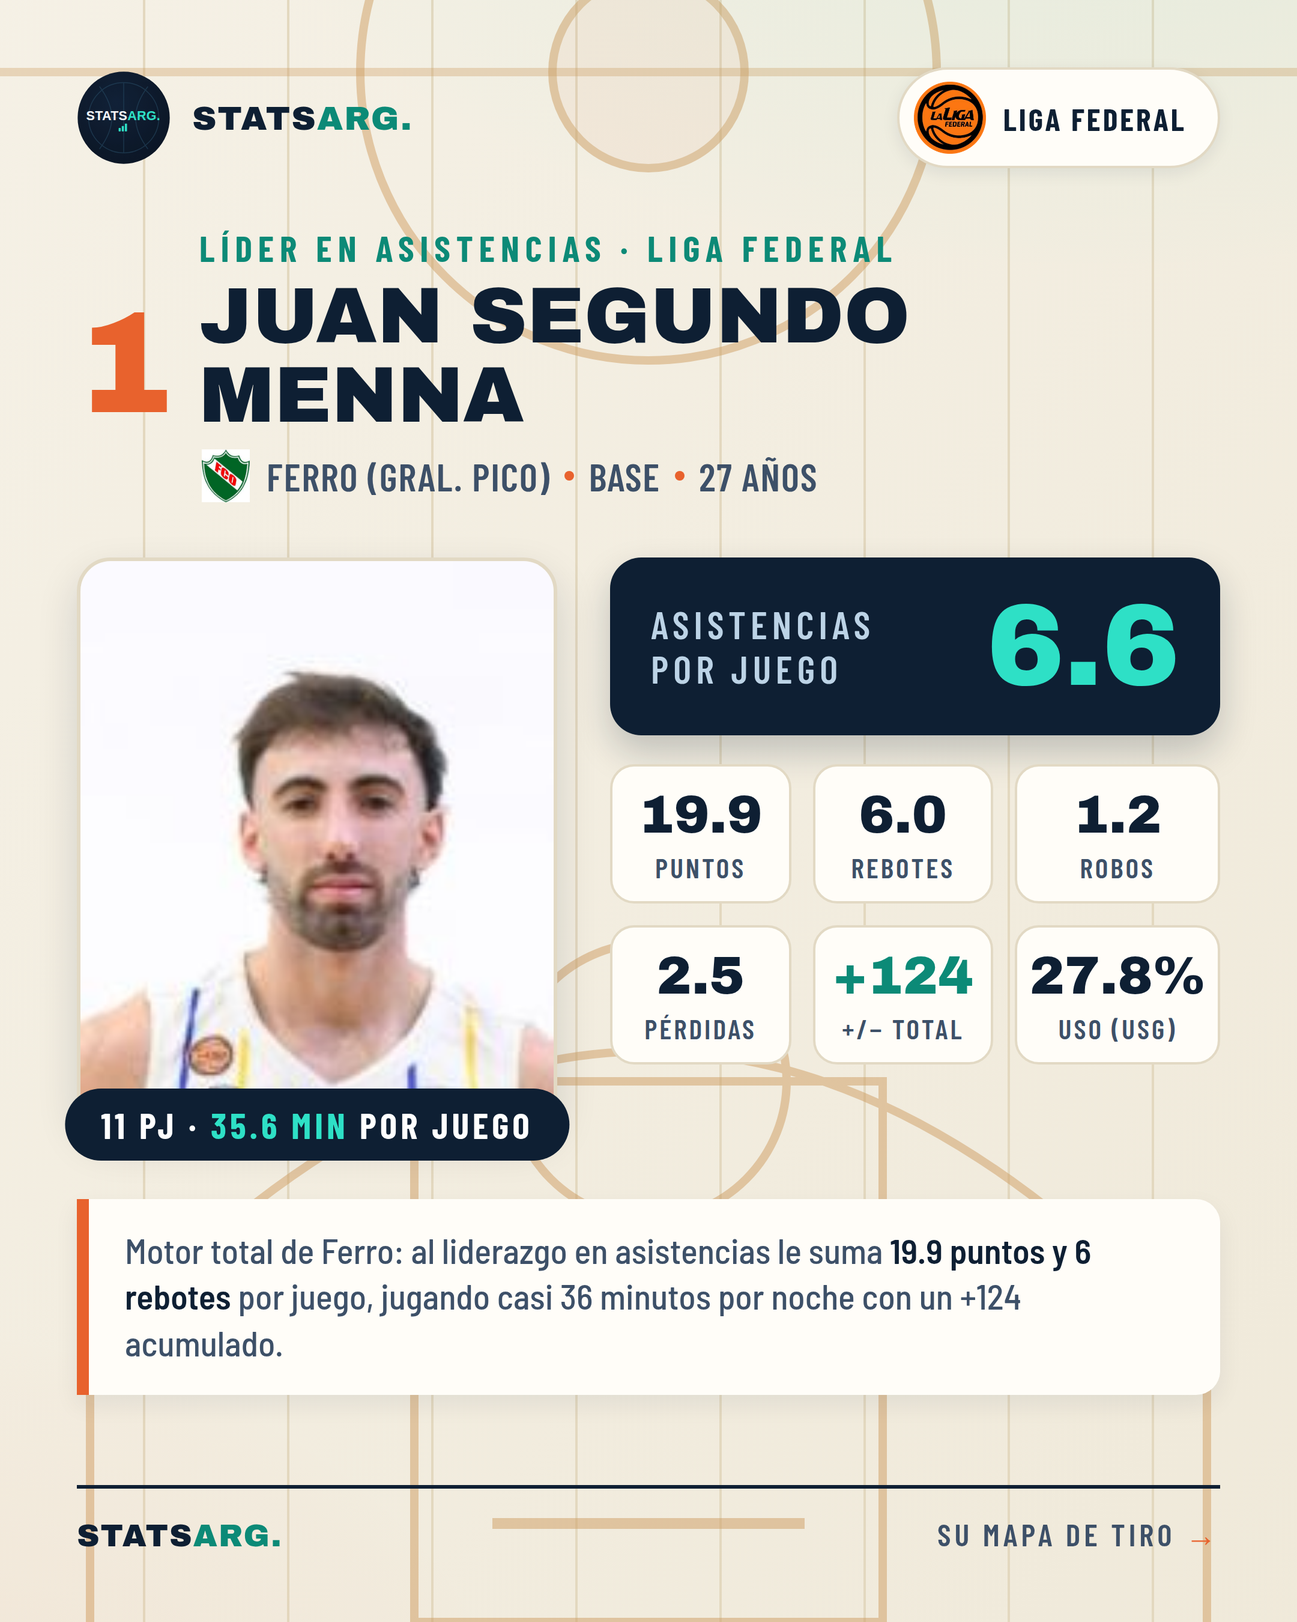
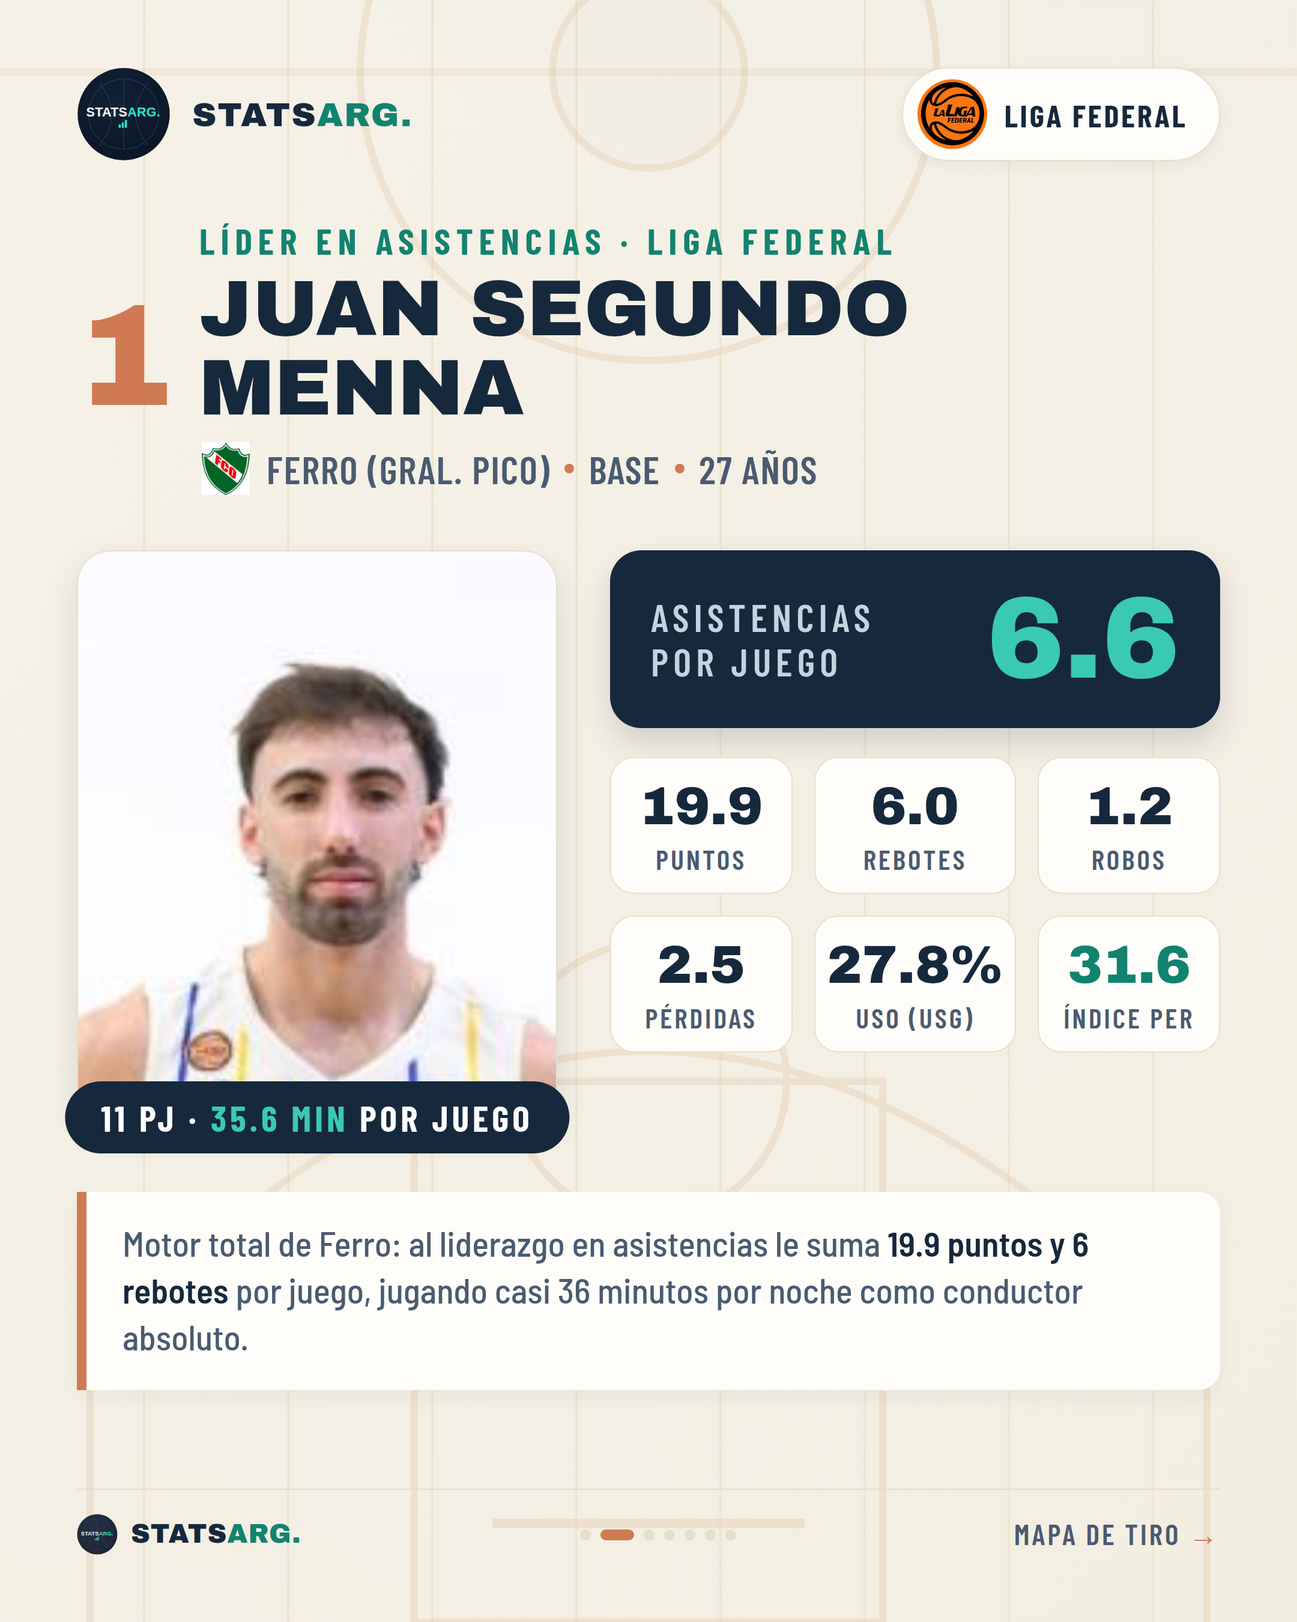
Rediseño carrusel asistidores: datos y estética
- Reemplaza el +/- (poco confiable en Liga Federal) por el Índice PER, dato
  real por jugador del dataset.
- Footer rediseñado con marca + puntos de progreso del carrusel.
- Paleta más suave (naranja terracota, cian atenuado) y cancha de fondo
  mucho más transparente.
- Mapa de tiro recortado a la cancha y agrandado para aprovechar el espacio;
  paneles de detalle reubicados en fila debajo.

Claude-Session: https://claude.ai/code/session_01GUo5CWbMptDgps5CVvVAgo

diff --git a/social/asistidores-liga-federal/slides.html b/social/asistidores-liga-federal/slides.html
@@ -11,16 +11,17 @@
 @font-face{font-family:'Barlow Semi';src:url('fonts/barlow-medium.ttf');font-weight:500}
 
 :root{
-  --bone:#f4f0e6;
-  --bone2:#ece6d7;
-  --navy:#0e1f33;
-  --navy-soft:#3d5068;
-  --cyan:#2ee0c6;
-  --teal-ink:#0c8a77;
-  --orange:#e8622d;
-  --wood:#d9c39a;
-  --card:#fffdf8;
-  --line:#e2d9c4;
+  --bone:#f5f1e8;
+  --bone2:#efe9db;
+  --navy:#16283c;
+  --navy-soft:#4a5b70;
+  --cyan:#3ac9b4;
+  --teal-ink:#12836f;
+  --orange:#cf7a52;
+  --orange-soft:#e7c3ad;
+  --card:#fffdf9;
+  --line:#e7dfcd;
+  --hair:#e6ddca;
 }
 *{margin:0;padding:0;box-sizing:border-box}
 body{background:#555;font-family:'Barlow Semi',sans-serif;color:var(--navy)}
@@ -31,10 +32,10 @@ body{background:#555;font-family:'Barlow Semi',sans-serif;color:var(--navy)}
   margin:24px auto;
 }
 .court{position:absolute;inset:0;z-index:0}
-.grain{position:absolute;inset:0;z-index:0;opacity:.5;
+.grain{position:absolute;inset:0;z-index:0;opacity:.32;
   background:
-    radial-gradient(1200px 600px at 85% -10%, rgba(46,224,198,.14), transparent 60%),
-    radial-gradient(1000px 700px at -10% 110%, rgba(232,98,45,.10), transparent 55%);
+    radial-gradient(1200px 620px at 84% -12%, rgba(58,201,180,.09), transparent 60%),
+    radial-gradient(1000px 720px at -12% 112%, rgba(207,122,82,.06), transparent 55%);
 }
 .content{position:relative;z-index:2;height:100%;display:flex;flex-direction:column;padding:56px 64px}
 
@@ -44,36 +45,42 @@ body{background:#555;font-family:'Barlow Semi',sans-serif;color:var(--navy)}
 .brand img.logo{width:96px;height:96px}
 .brand .word{font-family:'Archivo Black';font-size:34px;letter-spacing:1px}
 .brand .word span{color:var(--teal-ink)}
-.liga-chip{display:flex;align-items:center;gap:14px;background:var(--card);border:2px solid var(--line);
-  border-radius:999px;padding:10px 26px 10px 12px;box-shadow:0 4px 14px rgba(14,31,51,.08)}
-.liga-chip img{width:60px;height:60px;object-fit:contain}
-.liga-chip .t{font-family:'Barlow Condensed';font-weight:700;font-size:30px;letter-spacing:2px;text-transform:uppercase}
+.liga-chip{display:flex;align-items:center;gap:14px;background:var(--card);border:1px solid var(--line);
+  border-radius:999px;padding:9px 26px 9px 12px;box-shadow:0 3px 10px rgba(22,40,60,.06)}
+.liga-chip img{width:58px;height:58px;object-fit:contain}
+.liga-chip .t{font-family:'Barlow Condensed';font-weight:700;font-size:29px;letter-spacing:2px;text-transform:uppercase}
 
 .kicker{font-family:'Barlow Condensed';font-weight:700;letter-spacing:6px;text-transform:uppercase;
   color:var(--orange);font-size:30px}
-.desc{font-size:29px;line-height:1.32;color:var(--navy-soft);font-weight:500}
-.desc b{color:var(--navy)}
+.desc{font-size:29px;line-height:1.34;color:var(--navy-soft);font-weight:500}
+.desc b{color:var(--navy);font-weight:600}
 
+/* ---------- footer (rediseñado) ---------- */
 .footer{margin-top:auto;display:flex;align-items:center;justify-content:space-between;
-  border-top:3px solid var(--navy);padding-top:22px}
-.footer .fbrand{font-family:'Archivo Black';font-size:26px;letter-spacing:1px}
-.footer .fbrand span{color:var(--teal-ink)}
-.footer .fnote{font-family:'Barlow Condensed';font-weight:600;font-size:26px;letter-spacing:3px;
+  border-top:1px solid var(--hair);padding-top:20px}
+.footer .fbrand{display:flex;align-items:center;gap:11px}
+.footer .fbrand img{width:34px;height:34px;opacity:.92}
+.footer .fbrand .fw{font-family:'Archivo Black';font-size:22px;letter-spacing:.5px;color:var(--navy)}
+.footer .fbrand .fw span{color:var(--teal-ink)}
+.dots{display:flex;align-items:center;gap:8px}
+.dots i{width:9px;height:9px;border-radius:50%;background:var(--hair);display:block;transition:none}
+.dots i.on{background:var(--orange);width:28px;border-radius:5px}
+.fnote{font-family:'Barlow Condensed';font-weight:600;font-size:24px;letter-spacing:2px;
   text-transform:uppercase;color:var(--navy-soft)}
-.footer .fnote b{color:var(--orange)}
+.fnote b{color:var(--orange);font-family:'Barlow Condensed'}
 
 /* ---------- cover ---------- */
 .cover .title-block{margin-top:34px}
 .cover h1{font-family:'Archivo Black';font-size:86px;line-height:.98;text-transform:uppercase;letter-spacing:-1px}
 .cover h1 .hl{color:var(--teal-ink)}
 .cover .subtitle{margin-top:24px;display:inline-flex;align-items:center;gap:20px}
-.cover .subtitle .bar{width:86px;height:12px;background:var(--orange);border-radius:6px}
+.cover .subtitle .bar{width:86px;height:11px;background:var(--orange);border-radius:6px}
 .cover .subtitle .txt{font-family:'Barlow Condensed';font-weight:700;font-size:44px;letter-spacing:4px;
   text-transform:uppercase;color:var(--navy)}
 .podio{margin-top:60px;display:flex;gap:28px}
-.pcard{flex:1;background:var(--card);border:2px solid var(--line);border-radius:26px;padding:20px 18px 18px;
-  text-align:center;box-shadow:0 10px 28px rgba(14,31,51,.10);position:relative}
-.pcard.first{transform:translateY(-26px);border-color:var(--cyan);box-shadow:0 14px 34px rgba(12,138,119,.18)}
+.pcard{flex:1;background:var(--card);border:1px solid var(--line);border-radius:26px;padding:20px 18px 18px;
+  text-align:center;box-shadow:0 8px 22px rgba(22,40,60,.07);position:relative}
+.pcard.first{transform:translateY(-26px);border-color:var(--cyan);box-shadow:0 12px 28px rgba(18,131,111,.14)}
 .pcard .rank{position:absolute;top:-24px;left:50%;transform:translateX(-50%);
   width:56px;height:56px;border-radius:50%;background:var(--navy);color:#fff;
   font-family:'Archivo Black';font-size:28px;display:flex;align-items:center;justify-content:center;
@@ -102,7 +109,7 @@ body{background:#555;font-family:'Barlow Semi',sans-serif;color:var(--navy)}
 .profile-main{display:flex;gap:44px;margin-top:46px;align-items:stretch}
 .photo-wrap{width:400px;flex:none;position:relative}
 .photo-wrap .ph{width:400px;height:476px;object-fit:cover;object-position:top;border-radius:28px;
-  border:3px solid var(--line);background:#e8e2d2;box-shadow:0 14px 34px rgba(14,31,51,.14);display:block}
+  border:1px solid var(--line);background:#e8e2d2;box-shadow:0 12px 28px rgba(22,40,60,.12);display:block}
 .photo-wrap .tag{position:absolute;left:50%;bottom:-26px;transform:translateX(-50%);
   background:var(--navy);color:#fff;border-radius:999px;padding:12px 30px;white-space:nowrap;
   font-family:'Barlow Condensed';font-weight:700;font-size:30px;letter-spacing:3px;text-transform:uppercase}
@@ -110,101 +117,114 @@ body{background:#555;font-family:'Barlow Semi',sans-serif;color:var(--navy)}
 
 .stats-col{flex:1;display:flex;flex-direction:column;gap:24px}
 .hero-tile{background:var(--navy);border-radius:26px;padding:26px 34px;display:flex;align-items:center;
-  justify-content:space-between;box-shadow:0 14px 30px rgba(14,31,51,.22)}
+  justify-content:space-between;box-shadow:0 12px 26px rgba(22,40,60,.16)}
 .hero-tile .lbl{font-family:'Barlow Condensed';font-weight:600;font-size:32px;letter-spacing:4px;
-  color:#bcd3e6;text-transform:uppercase;line-height:1.15}
+  color:#c3d3df;text-transform:uppercase;line-height:1.15}
 .hero-tile .val{font-family:'Archivo Black';font-size:96px;color:var(--cyan);line-height:1}
 .grid{display:grid;grid-template-columns:repeat(3,1fr);gap:18px}
-.tile{background:var(--card);border:2px solid var(--line);border-radius:20px;padding:18px 10px 14px;text-align:center}
+.tile{background:var(--card);border:1px solid var(--line);border-radius:20px;padding:18px 10px 14px;text-align:center}
 .tile .v{font-family:'Archivo Black';font-size:44px;line-height:1}
 .tile .k{font-family:'Barlow Condensed';font-weight:600;font-size:23px;letter-spacing:2px;color:var(--navy-soft);
   text-transform:uppercase;margin-top:8px}
-.tile.neg .v{color:#b3403c}
-.tile.pos .v{color:var(--teal-ink)}
+.tile.hl .v{color:var(--teal-ink)}
 
-.profile .descbox{margin-top:58px;background:var(--card);border-left:10px solid var(--orange);
-  border-radius:0 20px 20px 0;padding:24px 30px;box-shadow:0 8px 20px rgba(14,31,51,.07)}
+.profile .descbox{margin-top:58px;background:var(--card);border-left:8px solid var(--orange);
+  border-radius:0 18px 18px 0;padding:24px 30px;box-shadow:0 6px 16px rgba(22,40,60,.05)}
 
 /* ---------- shotmap slide ---------- */
 .shot-head{margin-top:26px}
 .shot-head .k{font-family:'Barlow Condensed';font-weight:700;font-size:30px;letter-spacing:5px;
   text-transform:uppercase;color:var(--teal-ink)}
 .shot-head h2{font-family:'Archivo Black';font-size:44px;text-transform:uppercase;line-height:1;margin-top:6px}
-.shot-main{display:flex;gap:28px;margin-top:24px;flex:1;min-height:0;align-items:flex-start}
-.mapcard{width:478px;flex:none;background:#fff;border:2px solid var(--line);border-radius:26px;overflow:hidden;
-  box-shadow:0 14px 34px rgba(14,31,51,.12);position:relative}
-.mapcard .crop{width:478px;overflow:hidden;position:relative}
-.mapcard img{width:478px;display:block;margin-top:-64px}
+
+.shot-main{display:flex;flex-direction:column;margin-top:22px;flex:1;min-height:0;gap:22px}
+.mapcard{width:648px;margin:0 auto;background:#fff;border:1px solid var(--line);border-radius:24px;overflow:hidden;
+  box-shadow:0 12px 28px rgba(22,40,60,.10)}
+.mapcard .crop{width:648px;height:452px;overflow:hidden;position:relative}
+.mapcard img{width:648px;display:block;margin-top:-92px}
 .mapcard .cap{background:var(--navy);color:#fff;text-align:center;
-  font-family:'Barlow Condensed';font-weight:700;font-size:22px;letter-spacing:2px;text-transform:uppercase;padding:10px 6px}
+  font-family:'Barlow Condensed';font-weight:700;font-size:24px;letter-spacing:2px;text-transform:uppercase;padding:11px 6px}
 .mapcard .cap span{color:var(--cyan)}
 
-.side-col{flex:1;min-width:0;display:flex;flex-direction:column;gap:20px}
-.panel{background:var(--card);border:2px solid var(--line);border-radius:22px;padding:18px 20px;min-width:0}
-.panel h3{font-family:'Barlow Condensed';font-weight:700;font-size:25px;letter-spacing:2px;
-  text-transform:uppercase;color:var(--navy);display:flex;align-items:center;gap:12px}
-.panel h3::before{content:'';width:14px;height:14px;border-radius:4px;background:var(--orange)}
+.panels-row{display:flex;gap:22px;align-items:stretch}
+.panel{flex:1;min-width:0;background:var(--card);border:1px solid var(--line);border-radius:22px;padding:18px 22px}
+.panel h3{font-family:'Barlow Condensed';font-weight:700;font-size:26px;letter-spacing:2px;
+  text-transform:uppercase;color:var(--navy);display:flex;align-items:center;gap:11px}
+.panel h3::before{content:'';width:13px;height:13px;border-radius:4px;background:var(--orange)}
 .panel.dark{background:var(--navy);border-color:var(--navy)}
 .panel.dark h3{color:#fff}
 .panel.dark h3::before{background:var(--cyan)}
 
-.splitrow{display:flex;gap:12px;margin-top:14px}
-.split{flex:1;min-width:0;text-align:center;background:var(--bone);border-radius:16px;padding:12px 4px 10px}
-.split .v{font-family:'Archivo Black';font-size:31px}
+.splitrow{display:flex;gap:9px;margin-top:14px}
+.split{flex:1;min-width:0;text-align:center;background:var(--bone2);border-radius:15px;padding:12px 2px 10px}
+.split .v{font-family:'Archivo Black';font-size:25px;letter-spacing:-.5px}
 .split .f{font-family:'Barlow Condensed';font-weight:600;font-size:20px;color:var(--navy-soft);margin-top:4px}
-.split .k{font-family:'Barlow Condensed';font-weight:700;font-size:20px;letter-spacing:1.5px;color:var(--teal-ink);margin-top:6px}
+.split .k{font-family:'Barlow Condensed';font-weight:700;font-size:21px;letter-spacing:1.5px;color:var(--teal-ink);margin-top:6px}
 
 .possrow{display:flex;gap:12px;margin-top:14px}
-.poss{flex:1;min-width:0;text-align:center;background:rgba(255,255,255,.07);border:1px solid rgba(255,255,255,.14);
-  border-radius:16px;padding:16px 6px 12px}
-.poss .v{font-family:'Archivo Black';font-size:33px;color:#fff}
+.poss{flex:1;min-width:0;text-align:center;background:rgba(255,255,255,.06);border:1px solid rgba(255,255,255,.12);
+  border-radius:15px;padding:14px 6px 11px}
+.poss .v{font-family:'Archivo Black';font-size:34px;color:#fff}
 .poss .v.cy{color:var(--cyan)}
-.poss .k{font-family:'Barlow Condensed';font-weight:600;font-size:18px;letter-spacing:1px;color:#bcd3e6;
-  text-transform:uppercase;margin-top:8px;line-height:1.1}
-.ratio-note{margin-top:12px;font-family:'Barlow Condensed';font-weight:600;font-size:23px;color:#bcd3e6;
-  text-align:center;letter-spacing:1px}
-.ratio-note b{color:var(--cyan);font-family:'Archivo Black';font-size:26px;letter-spacing:0}
+.poss .k{font-family:'Barlow Condensed';font-weight:600;font-size:19px;letter-spacing:1px;color:#c3d3df;
+  text-transform:uppercase;margin-top:8px;line-height:1.12}
+.ratio-note{margin-top:13px;font-family:'Barlow Condensed';font-weight:600;font-size:24px;color:#c3d3df;
+  text-align:center;letter-spacing:.5px}
+.ratio-note b{color:var(--cyan);font-family:'Archivo Black';font-size:27px;letter-spacing:0}
 
-.shot .descbox{margin-top:20px;background:var(--card);border-left:10px solid var(--orange);
-  border-radius:0 20px 20px 0;padding:22px 28px;box-shadow:0 8px 20px rgba(14,31,51,.07)}
+.shot .descbox{margin-top:18px;background:var(--card);border-left:8px solid var(--orange);
+  border-radius:0 18px 18px 0;padding:20px 28px;box-shadow:0 6px 16px rgba(22,40,60,.05)}
 </style>
 </head>
 <body>
 
-<!-- ======== court background svg (reused) ======== -->
+<!-- ======== court background svg (reused, más transparente) ======== -->
 <script>
 const COURT = `
 <svg class="court" viewBox="0 0 1080 1350" xmlns="http://www.w3.org/2000/svg">
-  <rect width="1080" height="1350" fill="#f4f0e6"/>
-  <g opacity="0.55">
+  <rect width="1080" height="1350" fill="#f5f1e8"/>
+  <g opacity="0.32">
     <rect width="1080" height="1350" fill="url(#wg)"/>
   </g>
   <defs>
     <linearGradient id="wg" x1="0" y1="0" x2="1" y2="1">
-      <stop offset="0" stop-color="#f6f1e5"/>
-      <stop offset="1" stop-color="#ece4d0"/>
+      <stop offset="0" stop-color="#f7f2e7"/>
+      <stop offset="1" stop-color="#efe7d4"/>
     </linearGradient>
   </defs>
-  <!-- wood planks -->
-  <g stroke="#e3d8bf" stroke-width="2">
+  <!-- wood planks (muy tenues) -->
+  <g stroke="#efe6d1" stroke-width="2">
     <line x1="120" y1="0" x2="120" y2="1350"/><line x1="240" y1="0" x2="240" y2="1350"/>
     <line x1="360" y1="0" x2="360" y2="1350"/><line x1="480" y1="0" x2="480" y2="1350"/>
     <line x1="600" y1="0" x2="600" y2="1350"/><line x1="720" y1="0" x2="720" y2="1350"/>
     <line x1="840" y1="0" x2="840" y2="1350"/><line x1="960" y1="0" x2="960" y2="1350"/>
   </g>
-  <!-- half-court painted lines -->
-  <g fill="none" stroke="#cf9d62" stroke-width="7" opacity="0.5">
+  <!-- half-court painted lines (apagadas) -->
+  <g fill="none" stroke="#d8b48a" stroke-width="6" opacity="0.24">
     <circle cx="540" cy="60" r="240"/>
-    <circle cx="540" cy="60" r="80" fill="rgba(232,98,45,0.10)"/>
+    <circle cx="540" cy="60" r="80" fill="rgba(207,122,82,0.05)"/>
     <rect x="345" y="900" width="390" height="450"/>
     <circle cx="540" cy="900" r="115"/>
     <path d="M 75 1350 L 75 1130 Q 540 620 1005 1130 L 1005 1350"/>
-    <line x1="410" y1="1268" x2="670" y2="1268" stroke-width="9"/>
+    <line x1="410" y1="1268" x2="670" y2="1268" stroke-width="8"/>
   </g>
-  <g fill="none" stroke="#cf9d62" stroke-width="7" opacity="0.35">
+  <g fill="none" stroke="#d8b48a" stroke-width="6" opacity="0.16">
     <line x1="0" y1="60" x2="1080" y2="60"/>
   </g>
 </svg>`;
+
+function makeDots(active){
+  let d='';
+  for(let n=0;n<7;n++) d+=`<i class="${n===active?'on':''}"></i>`;
+  return d;
+}
+function foot(active,note){
+  return `<div class="footer">
+    <div class="fbrand"><img src="../../assets/statsarg-logo.svg"><div class="fw">STATS<span>ARG.</span></div></div>
+    <div class="dots">${makeDots(active)}</div>
+    <div class="fnote">${note}</div>
+  </div>`;
+}
 </script>
 
 <!-- ================= SLIDE 1 · PORTADA ================= -->
@@ -249,10 +269,7 @@ const COURT = `
       </div>
     </div>
 
-    <div class="footer">
-      <div class="fbrand">STATS<span>ARG.</span></div>
-      <div class="fnote">Mínimo 10 juegos · Deslizá <b>&#8594;</b></div>
-    </div>
+    <div id="cover-foot"></div>
   </div>
 </div>
 
@@ -269,11 +286,11 @@ const PLAYERS = [
     logo:'../../assets/logos/liga-federal__ferro-gral-pico.png',
     shot:'../../assets/shots/liga-federal__ferro-gral-pico__menna-juan-segundo.jpg',
     ast:'6.6', pts:'19.9', reb:'6.0', rob:'1.2', per:'2.5', min:'35.6', pj:'11',
-    pm:'+124', pmClass:'pos',
+    eff:'31.6',
     usg:'27.8%', ts:'51.4%',
     fg2:{p:'44.3%',f:'27/61'}, fg3:{p:'34.6%',f:'45/130'}, ft:{p:'66.7%',f:'30/45'},
     ratio:'2.6',
-    desc1:'Motor total de Ferro: al liderazgo en asistencias le suma <b>19.9 puntos y 6 rebotes</b> por juego, jugando casi 36 minutos por noche con un +124 acumulado.',
+    desc1:'Motor total de Ferro: al liderazgo en asistencias le suma <b>19.9 puntos y 6 rebotes</b> por juego, jugando casi 36 minutos por noche como conductor absoluto.',
     desc2:'Alto volumen y confianza desde el triple (130 intentos) y buen cierre en la pintura. Termina las posesiones creando: <b>6.6 asistencias contra solo 2.5 pérdidas</b>.'
   },
   {
@@ -284,7 +301,7 @@ const PLAYERS = [
     logo:'../../assets/logos/liga-federal__atl-tostado.png',
     shot:'../../assets/shots/liga-federal__atl-tostado__skidelsky-ernesto-dario.jpg',
     ast:'6.2', pts:'13.4', reb:'3.7', rob:'1.7', per:'2.8', min:'36.0', pj:'12',
-    pm:'-22', pmClass:'neg',
+    eff:'24.8',
     usg:'22.1%', ts:'59.5%',
     fg2:{p:'50.9%',f:'28/55'}, fg3:{p:'41.1%',f:'30/73'}, ft:{p:'68.2%',f:'15/22'},
     ratio:'2.2',
@@ -299,7 +316,7 @@ const PLAYERS = [
     logo:'../../assets/logos/liga-federal__almagro-esperanza.png',
     shot:'../../assets/shots/liga-federal__almagro-esperanza__durigon-enzo.jpg',
     ast:'5.6', pts:'12.9', reb:'5.6', rob:'1.2', per:'1.9', min:'36.1', pj:'17',
-    pm:'+61', pmClass:'pos',
+    eff:'23.5',
     usg:'23.1%', ts:'43.7%',
     fg2:{p:'44.8%',f:'43/96'}, fg3:{p:'22.3%',f:'27/121'}, ft:{p:'76.5%',f:'52/68'},
     ratio:'2.9',
@@ -343,18 +360,15 @@ return `
           <div class="tile"><div class="v">${p.reb}</div><div class="k">Rebotes</div></div>
           <div class="tile"><div class="v">${p.rob}</div><div class="k">Robos</div></div>
           <div class="tile"><div class="v">${p.per}</div><div class="k">Pérdidas</div></div>
-          <div class="tile ${p.pmClass}"><div class="v">${p.pm}</div><div class="k">+/− Total</div></div>
           <div class="tile"><div class="v">${p.usg}</div><div class="k">Uso (USG)</div></div>
+          <div class="tile hl"><div class="v">${p.eff}</div><div class="k">Índice PER</div></div>
         </div>
       </div>
     </div>
 
     <div class="descbox"><div class="desc">${p.desc1}</div></div>
 
-    <div class="footer">
-      <div class="fbrand">STATS<span>ARG.</span></div>
-      <div class="fnote">Su mapa de tiro <b>&#8594;</b></div>
-    </div>
+    ${foot(1+i*2, 'Mapa de tiro <b>&#8594;</b>')}
   </div>
 </div>`;
 }
@@ -378,18 +392,16 @@ return `
     <div class="shot-main">
       <div class="mapcard">
         <div class="crop"><img src="${p.shot}"></div>
-        <div class="cap">Mapa de tiro por zonas · <span>vs. liga</span></div>
+        <div class="cap">Mapa de tiro por zonas · <span>${p.corto} vs. promedio de la liga</span></div>
       </div>
-      <div class="side-col">
+      <div class="panels-row">
         <div class="panel">
           <h3>Detalle de tiro</h3>
           <div class="splitrow">
             <div class="split"><div class="v">${p.fg2.p}</div><div class="f">${p.fg2.f}</div><div class="k">Dobles</div></div>
             <div class="split"><div class="v">${p.fg3.p}</div><div class="f">${p.fg3.f}</div><div class="k">Triples</div></div>
             <div class="split"><div class="v">${p.ft.p}</div><div class="f">${p.ft.f}</div><div class="k">Libres</div></div>
-          </div>
-          <div class="splitrow">
-            <div class="split" style="background:rgba(46,224,198,.14)"><div class="v" style="color:var(--teal-ink)">${p.ts}</div><div class="k">Tiro real (TS%)</div></div>
+            <div class="split" style="background:rgba(58,201,180,.13)"><div class="v" style="color:var(--teal-ink)">${p.ts}</div><div class="f">&nbsp;</div><div class="k">Tiro real</div></div>
           </div>
         </div>
         <div class="panel dark">
@@ -406,10 +418,7 @@ return `
 
     <div class="descbox"><div class="desc">${p.desc2}</div></div>
 
-    <div class="footer">
-      <div class="fbrand">STATS<span>ARG.</span></div>
-      <div class="fnote">${i<2 ? 'Sigue el podio <b>&#8594;</b>' : 'Fin del podio · <b>STATSARG</b>'}</div>
-    </div>
+    ${foot(2+i*2, i<2 ? 'Sigue el podio <b>&#8594;</b>' : 'Fin del podio')}
   </div>
 </div>`;
 }
@@ -417,6 +426,7 @@ return `
 let html='';
 PLAYERS.forEach((p,i)=>{ html+=profileSlide(p,i)+shotSlide(p,i); });
 document.getElementById('players-mount').outerHTML=html;
+document.getElementById('cover-foot').outerHTML=foot(0,'Mínimo 10 juegos · Deslizá <b>&#8594;</b>');
 document.querySelectorAll('.court-holder').forEach(el=>{ el.outerHTML=COURT; });
 </script>
 </body>
